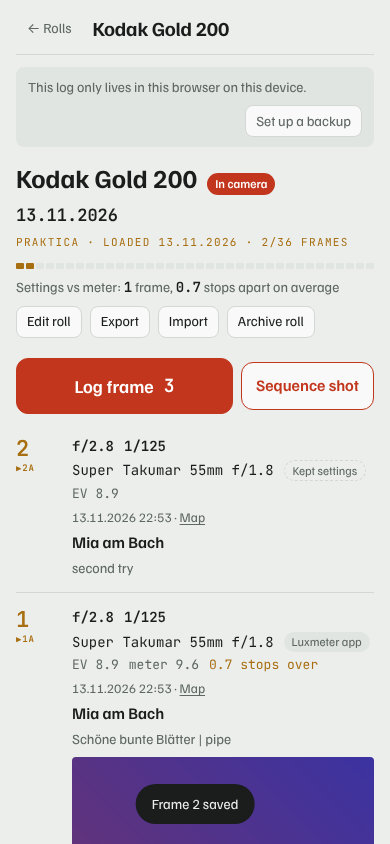
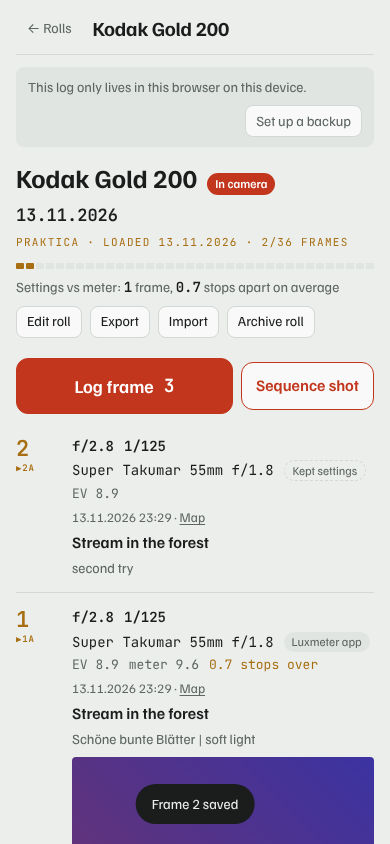
Location: keep only the GPS switch and remember its state
Remove the manual coordinate box and Here button, persist the switch in
IndexedDB, wait for a pending GPS fix on save. Generic test data and
screenshots.

Claude-Session: https://claude.ai/code/session_01KcJUmRpgootFaasABVMDKB

Changed region(s): [[0.1846, 0.8009, 0.6462, 0.8934], [0.1846, 0.5853, 0.5231, 0.6469]]

diff --git a/tests/e2e.js b/tests/e2e.js
@@ -10,12 +10,12 @@ let fails = 0; const ok = (c, m) => { console.log((c ? 'PASS ' : 'FAIL ') + m); 
 const repo = { files: new Map(), commits: 0, calls: [] };
 const gsha = buf => crypto.createHash('sha1').update(Buffer.concat([Buffer.from(`blob ${buf.length}\0`), buf])).digest('hex');
 async function ghRoute(route) {
-  const q = route.request(); const u = new URL(q.url()); const m = q.method(); const p = u.pathname.replace('/repos/jan/film-log-data', '');
+  const q = route.request(); const u = new URL(q.url()); const m = q.method(); const p = u.pathname.replace('/repos/example/film-log-data', '');
   repo.calls.push(m + ' ' + p);
   const json = (s, o) => route.fulfill({ status: s, contentType: 'application/json', headers: { 'access-control-allow-origin': '*' }, body: JSON.stringify(o) });
   if (m === 'OPTIONS') return route.fulfill({ status: 204, headers: { 'access-control-allow-origin': '*', 'access-control-allow-headers': '*', 'access-control-allow-methods': '*' } });
   if (q.headers()['authorization'] !== 'Bearer good') return json(401, { message: 'Bad credentials' });
-  if (p === '') return json(200, { full_name: 'jan/film-log-data', private: repo.private !== false, default_branch: 'main', permissions: { push: true } });
+  if (p === '') return json(200, { full_name: 'example/film-log-data', private: repo.private !== false, default_branch: 'main', permissions: { push: true } });
   if (p.startsWith('/git/trees/')) { if (!repo.files.size) return json(409, { message: 'Git Repository is empty.' }); return json(200, { tree: [...repo.files].map(([path, b]) => ({ path, type: 'blob', sha: gsha(b) })) }); }
   if (p.startsWith('/git/blobs/')) { const sha = p.split('/').pop(); for (const b of repo.files.values()) if (gsha(b) === sha) return json(200, { content: b.toString('base64').replace(/(.{60})/g, '$1\n'), encoding: 'base64' }); return json(404, {}); }
   if (p.startsWith('/contents/')) { const fp = decodeURIComponent(p.slice(10)); const body = JSON.parse(q.postData() || '{}'); const cur = repo.files.get(fp);
@@ -46,8 +46,9 @@ async function ghRoute(route) {
   // frame 1 with GPS + scan
   await p.click('#logBtn'); await p.check('#f-geo'); await p.waitForTimeout(400);
   ok((await p.inputValue('#f-loc')) === '50.73741, 7.09823', 'GPS toggle fills location');
+  ok(!(await p.locator('#geoBtn').count()) && await p.locator('#f-loc').getAttribute('type') === 'hidden', 'no manual location box');
   await p.click('.chips[data-for="f-ap"] button[data-v="2.8"]'); await p.click('.chips[data-for="f-sh"] button[data-v="1/125"]');
-  await p.fill('#f-meterval', '2000'); await p.fill('#f-subject', 'Mia am Bach'); await p.fill('#f-notes', 'Schöne bunte Blätter | pipe');
+  await p.fill('#f-meterval', '2000'); await p.fill('#f-subject', 'Stream in the forest'); await p.fill('#f-notes', 'Schöne bunte Blätter | soft light');
   const png = await (async () => { const pg = await ctx.newPage(); await pg.setContent('<body style="margin:0;background:linear-gradient(45deg,#a33,#33a)">'); const buf = await pg.screenshot({ clip: { x: 0, y: 0, width: 300, height: 200 } }); await pg.close(); return buf; })();
   await p.setInputFiles('#f-photo-file', { name: 'scan.png', mimeType: 'image/png', buffer: png }); await p.waitForTimeout(500);
   ok((await p.locator('#f-photo-status').innerText()).startsWith('Uploaded'), 'scan attached');
@@ -57,7 +58,17 @@ async function ghRoute(route) {
   // sequence shot
   await p.click('#seqBtn'); await p.fill('#f-notes', 'second try'); await p.click('#shotForm button[type=submit] >> nth=1'); await p.waitForTimeout(300);
   await shot('02-roll');
-  const s1 = await snap(); ok(JSON.parse(s1)[0][2].length === 2 && s1.includes('2|2.8|1/125|Kept settings|Mia am Bach|second try|50.73741, 7.09823|'), 'sequence shot copied frame');
+  const s1 = await snap(); ok(JSON.parse(s1)[0][2].length === 2 && s1.includes('2|2.8|1/125|Kept settings|Stream in the forest|second try|50.73741, 7.09823|'), 'sequence shot copied frame');
+  // the GPS switch is remembered, and switching it off sticks too
+  await p.click('#logBtn'); await p.waitForTimeout(400);
+  ok(await p.isChecked('#f-geo') && (await p.inputValue('#f-loc')) === '50.73741, 7.09823', 'GPS switch still on for the next frame');
+  await p.uncheck('#f-geo'); ok((await p.inputValue('#f-loc')) === '', 'switching off clears the location'); await p.click('[data-close]');
+  await p.reload(); await p.waitForTimeout(500);
+  await p.click('#seqBtn'); await p.waitForTimeout(300);
+  ok(!(await p.isChecked('#f-geo')) && (await p.inputValue('#f-loc')) === '', 'GPS switch stays off after reload, also for sequence shots');
+  await p.check('#f-geo'); await p.waitForTimeout(400); await p.click('[data-close]');
+  await p.click('[data-shot] >> nth=0'); await p.waitForTimeout(200);
+  ok(await p.isChecked('#f-geo') && (await p.inputValue('#f-loc')) === '50.73741, 7.09823', 'editing a tagged frame keeps its location'); await p.click('[data-close]');
   // persistence across reload
   await p.reload(); await p.waitForTimeout(500);
   ok(await snap() === s1 && await blobsOk() === 1, 'data and scan survive reload');
@@ -69,7 +80,7 @@ async function ghRoute(route) {
   let files = await list(); console.log('   folder:', files.join(', '));
   ok(files.includes('settings.json') && files.filter(f => /^rolls\/.*\.(json|md)$/.test(f)).length === 2 && files.filter(f => f.startsWith('scans/')).length === 1, 'folder has json, md and scan');
   const md = await p.evaluate(async () => { const d = await (await navigator.storage.getDirectory()).getDirectoryHandle('rolls'); for await (const [n, h] of d.entries()) if (n.endsWith('.md')) return (await h.getFile()).text(); });
-  ok(md.includes('| 1 | 2.8 | 1/125 |') && md.includes('pipe'), 'markdown mirror readable');
+  ok(md.includes('| 1 | 2.8 | 1/125 |') && md.includes('soft light'), 'markdown mirror readable');
   // auto mirror on change
   await p.click('#logBtn'); await p.fill('#f-subject', 'Third'); await p.click('#shotForm button[type=submit] >> nth=1'); await p.waitForTimeout(2500);
   const j = await p.evaluate(async () => { const d = await (await navigator.storage.getDirectory()).getDirectoryHandle('rolls'); for await (const [n, h] of d.entries()) if (n.endsWith('.json')) return JSON.parse(await (await h.getFile()).text()); });
@@ -86,7 +97,7 @@ async function ghRoute(route) {
   // settings screen + GitHub sync through the UI
   await p.goto(URL0 + '#'); await p.waitForTimeout(300); await p.click('#backBtn').catch(() => {}); await p.waitForTimeout(200);
   await p.click('#settingsBtn'); await p.waitForTimeout(200); await shot('03-settings');
-  await p.fill('#gh-owner', 'jan'); await p.fill('#gh-repo', 'film-log-data'); await p.fill('#gh-token', 'bad'); await p.click('#ghSave'); await p.waitForTimeout(400);
+  await p.fill('#gh-owner', 'example'); await p.fill('#gh-repo', 'film-log-data'); await p.fill('#gh-token', 'bad'); await p.click('#ghSave'); await p.waitForTimeout(400);
   ok((await p.locator('#ghMsg').innerText()).includes('token was rejected'), 'bad token explained');
   repo.private = false; await p.fill('#gh-token', 'good'); await p.click('#ghSave'); await p.waitForTimeout(400);
   ok((await p.locator('#ghMsg').innerText()).includes('public'), 'public repo warning'); repo.private = true;
@@ -104,7 +115,7 @@ async function ghRoute(route) {
   ok([...repo.files].find(([k]) => k.startsWith('rolls/') && k.endsWith('.json'))[1].toString('utf8').includes('Größe geändert ✓'), 'umlauts survive the round trip');
   const s3 = await snap();
   // wipe and restore from GitHub
-  await wipe(); await p.evaluate(async () => { await FilmLogSync.setGithub({ owner: 'jan', repo: 'film-log-data', branch: 'main', token: 'good', scans: true }); });
+  await wipe(); await p.evaluate(async () => { await FilmLogSync.setGithub({ owner: 'example', repo: 'film-log-data', branch: 'main', token: 'good', scans: true }); });
   const r2 = await p.evaluate(() => FilmLogSync.restoreGithub());
   ok(await snap() === s3 && await blobsOk() === 1, 'restore from GitHub brings back everything ' + JSON.stringify(r2));
   // delete roll -> tombstone removes remote files

diff --git a/app.js b/app.js
@@ -1,7 +1,7 @@
 /* Film Log: the user interface. Data access goes through store.js, backups through sync.js. */
 (() => {
 "use strict";
-const VERSION = "1.0.1";   // keep in step with CACHE in sw.js
+const VERSION = "1.0.2";   // keep in step with CACHE in sw.js
 const Store = window.FilmLogStore, Sync = window.FilmLogSync;
 const METERING = ["Luxmeter app", "Kept settings", "Sunny 16", "Guessed", "Luxmeter + guess", "Other"];
 const APERTURES = ["1.8", "2", "2.8", "4", "5.6", "8", "11", "16"];
@@ -56,9 +56,9 @@ function evParts(s, iso) {
 const evLineHTML = (s, iso) => { const p = evParts(s, iso); return p.length ? `<span class="ev-line">${p.map(([c, t]) => `<span class="${c}">${esc(t)}</span>`).join("")}</span>` : ""; };
 /* ---------- location ----------
    Stored as one string "lat, lon" (5 decimals, about 1 m) plus locAcc in metres when it came from GPS. */
-const GEO_KEY = "filmlog.geoTag";
-const geoPref = () => { try { return localStorage.getItem(GEO_KEY) === "1"; } catch (e) { return false; } };
-const setGeoPref = on => { try { localStorage.setItem(GEO_KEY, on ? "1" : "0"); } catch (e) {} };
+let geoOn = false;   // the "Tag where I am" switch, remembered from frame to frame
+const geoPref = () => geoOn;
+const setGeoPref = on => { geoOn = !!on; Store.kv.set("geoTag", geoOn).catch(() => {}); };
 function parseLoc(t) {
   const m = String(t ?? "").match(/(-?\d+(?:\.\d+)?)\s*°?\s*([NS])?\s*[,; ]\s*(-?\d+(?:\.\d+)?)\s*°?\s*([EW])?/i);
   if (!m) return null;
@@ -406,11 +406,11 @@ function openShotSheet(roll, shot, seq) {
         </div>
         <label class="check"><input id="f-approx" type="checkbox" ${s.timeApprox ? "checked" : ""}> Time is approximate</label>
       </div>
-      <div class="field"><label for="f-loc">Location (optional)</label>
-        ${isNew ? `<label class="check"><input id="f-geo" type="checkbox" ${geoPref() ? "checked" : ""}> Tag where I am (phone GPS)</label>` : ""}
-        <div class="loc-in"><input id="f-loc" class="mono" type="text" inputmode="decimal" placeholder="lat, lon (or paste from a map)" value="${esc(s.loc || "")}"><button type="button" class="btn" id="geoBtn">Here</button></div>
+      <div class="field"><span class="lbl">Location (optional)</span>
+        <label class="check"><input id="f-geo" type="checkbox" ${(isNew ? geoPref() : !!s.loc) ? "checked" : ""}> Tag where I am (phone GPS)</label>
+        <input id="f-loc" type="hidden" value="${esc(isNew && !geoPref() ? "" : s.loc || "")}">
         <span class="hint" id="geoStatus"></span>
-        <span id="geoMap">${mapLinkHTML(s.loc, "Check on map")}</span>
+        <span id="geoMap">${isNew ? "" : mapLinkHTML(s.loc, "Check on map")}</span>
       </div>
       </div>
       <div class="field"><label for="f-subject">What I shot</label><input id="f-subject" type="text" placeholder="Subject and place" value="${esc(s.subject)}"></div>
@@ -442,26 +442,23 @@ function openShotSheet(roll, shot, seq) {
   $("#f-meterunit").addEventListener("change", () => { $("#f-meterval").placeholder = $("#f-meterunit").value; });
   updateEV();
   if ($("#editExpoBtn")) $("#editExpoBtn").onclick = () => { $("#expoSummary").hidden = true; $("#expoFields").hidden = false; };
-  let locAcc = s.locAcc ?? null, locFromGps = s.loc || "";
-  const showLoc = () => { const v = $("#f-loc").value.trim(); $("#geoMap").innerHTML = mapLinkHTML(v, "Check on map"); if (v && !parseLoc(v)) $("#geoStatus").textContent = "Use “lat, lon”, e.g. 50.73741, 7.09823"; };
-  async function tagHere() {
+  let locAcc = s.locAcc ?? null, locFromGps = s.loc || "", locPending = null;
+  const showLoc = () => { $("#geoMap").innerHTML = mapLinkHTML($("#f-loc").value.trim(), "Check on map"); };
+  function tagHere() {
     const st = $("#geoStatus"); st.textContent = "Finding you…";
-    try {
-      const c = await getPosition(); if (!$("#f-loc")) return;
+    const mine = locPending = getPosition().then(c => {
+      if (!$("#f-loc") || locPending !== mine || !$("#f-geo").checked) return;
       const v = fmtLoc(c.latitude, c.longitude); $("#f-loc").value = v; locAcc = Math.round(c.accuracy); locFromGps = v;
       st.textContent = `Tagged, accurate to about ${locAcc} m`; showLoc();
-    } catch (e) {
-      if (!$("#geoStatus")) return;
-      st.textContent = e.message;
-      if (/^No location access/.test(e.message) && $("#f-geo")) { $("#f-geo").checked = false; setGeoPref(false); }
-    }
+    }, e => { if ($("#geoStatus") && locPending === mine) st.textContent = e.message; }).finally(() => { if (locPending === mine) locPending = null; });
+    return mine;
   }
-  $("#geoBtn").onclick = tagHere;
-  $("#f-loc").addEventListener("input", () => { $("#geoStatus").textContent = ""; showLoc(); });
-  if ($("#f-geo")) {
-    $("#f-geo").onchange = () => { setGeoPref($("#f-geo").checked); if ($("#f-geo").checked && !$("#f-loc").value.trim()) tagHere(); };
-    if ($("#f-geo").checked) tagHere();
-  }
+  $("#f-geo").onchange = () => {
+    const on = $("#f-geo").checked;
+    if (isNew) setGeoPref(on);
+    if (on) tagHere(); else { locPending = null; $("#f-loc").value = ""; $("#geoStatus").textContent = ""; showLoc(); }
+  };
+  if (isNew && $("#f-geo").checked) tagHere();
   $("#nowBtn").onclick = () => { const p = nowParts(); $("#f-date").value = p.date; $("#f-time").value = p.time; $("#f-approx").checked = false; toast("Stamped " + p.time); };
   $("#f-meter").onchange = () => {
     if ($("#f-meter").value === "Kept settings" && isNew && prev) {
@@ -493,6 +490,7 @@ function openShotSheet(roll, shot, seq) {
   });
   $("#shotForm").onsubmit = async e => {
     e.preventDefault();
+    if (locPending) { root.querySelectorAll("[type=submit]").forEach(b => b.disabled = true); await locPending; }
     const data = {
       id: s.id, n: parseInt($("#f-n").value, 10) || 0, aperture: $("#f-ap").value.trim(), shutter: $("#f-sh").value.trim(),
       lens: $("#f-lens").value === "__add" ? s.lens : $("#f-lens").value, metering: $("#f-meter").value, meteringNote: $("#f-meternote").value.trim(),
@@ -839,6 +837,8 @@ $("#settingsBtn").onclick = openSettings;
   catch (e) { $("#main").innerHTML = `<p class="status">This browser won’t let the log store data (${esc(e && e.message || e)}). Private or incognito windows often block it.</p>`; return; }
   db = Store.db; downloads = Store.downloads; assets = Store.assets;
   backupFileLast = (await Store.kv.get("backupFileLast")) || "";
+  geoOn = !!(await Store.kv.get("geoTag"));
+  if (!geoOn) { try { if (localStorage.getItem("filmlog.geoTag") === "1") setGeoPref(true); } catch (e) {} }
   await Sync.init(rollMarkdown);
   let statusKey = "";
   Sync.onStatus(st => {

diff --git a/docs.html b/docs.html
@@ -37,7 +37,7 @@
     </ol>
     <p>Film Log now has its own icon and opens full screen like any other app. After the first visit it also opens without a connection. On an iPhone, use Safari: <b>Share › Add to Home Screen</b>.</p>
     <h3>2. Allow location, if you want it</h3>
-    <p>When you log a frame, switch on <b>Tag where I am (phone GPS)</b>. Chrome asks once whether the site may use your location. After that every new frame picks up your position by itself. You can switch it off again in the same place.</p>
+    <p>When you log a frame, switch on <b>Tag where I am (phone GPS)</b>. Chrome asks once whether the site may use your location. After that every new frame picks up your position by itself, until you switch it off again in the same place.</p>
     <p class="note">Said no by accident? Tap the icon left of the address bar, or open Android Settings › Apps › Film Log (or Chrome) › Permissions › Location.</p>
     <h3>3. Set up a backup</h3>
     <p>Your log is stored inside the browser. That is fast and private, but it is lost if the browser's site data is cleared, the browser is uninstalled or the phone is gone. Set up at least one of the backups below. Until you do, the app shows a reminder.</p>
@@ -53,7 +53,7 @@
     <h3>Light and EV</h3>
     <p>If you enter what the meter said (lux or EV), the log shows the EV of your settings and how many stops they are over or under the reading. If you guess the light before you meter, enter the guess too and the log tells you how close you were. All EV values are at ISO 100, the scale light meter apps use.</p>
     <h3>Location</h3>
-    <p>Stored as <code>latitude, longitude</code>. Use the GPS switch, the <b>Here</b> button, or paste coordinates from a maps app. Frames with a location get a map link.</p>
+    <p>Switch on <b>Tag where I am</b> and the frame gets your current position. The switch keeps its setting for the following frames, on or off. Frames with a location get a map link. Coordinates are stored as <code>latitude, longitude</code>.</p>
 
     <h2 id="folder">Backup to a folder on the phone</h2>
     <p>The log can copy itself into a normal folder as plain files. If the browser data is ever lost, the files are still there.</p>

diff --git a/sw.js b/sw.js
@@ -1,7 +1,7 @@
 /* Film Log service worker: keeps the app shell available offline.
    Cached files are served first and refreshed in the background, so an update
    shows up the second time the app is opened. Bump CACHE with every release. */
-const CACHE = "film-log-1.0.1";
+const CACHE = "film-log-1.0.2";
 const SHELL = ["./", "index.html", "docs.html", "app.css", "app.js", "store.js", "sync.js", "manifest.webmanifest",
   "icons/icon.svg", "icons/icon-192.png", "icons/icon-512.png", "icons/icon-maskable-512.png",
   "fonts/familjen-grotesk-latin-400-normal.woff2", "fonts/familjen-grotesk-latin-500-normal.woff2",

diff --git a/app.css b/app.css
@@ -125,7 +125,6 @@ header.top h1 { font-size: 20px; margin: 0; font-weight: 700; letter-spacing: -0
 .meter-in { display: grid; grid-template-columns: 1fr 5.5em; gap: 6px; }
 .ev-live { font-family: var(--font-mono); font-size: 14px; background: var(--chip); border-radius: 8px; padding: 8px 10px; }
 .ev-live:empty { display: none; }
-.loc-in { display: grid; grid-template-columns: 1fr auto; gap: 8px; }
 .loc-link { font-size: 13px; color: var(--muted); text-decoration: underline; text-underline-offset: 2px; justify-self: start; }
 .shot .loc-link { position: relative; z-index: 1; }
 

diff --git a/README.md b/README.md
@@ -21,7 +21,7 @@ your device.
 - **Sequence shot**: one tap copies the previous frame for a series of the same scene.
 - **Light**: enter the meter reading (lux or EV) and see the EV of your settings and how far
   off they are. Guess the light first and the log tells you how close you were.
-- **Location**: tag frames with the phone's GPS, or paste coordinates.
+- **Location**: tag frames with the phone's GPS.
 - **After development**: attach a scan to each frame and note the lesson learned.
 - **Backups you control**: a folder on the device, a private GitHub repository, or a single
   backup file. All plain JSON and Markdown.
